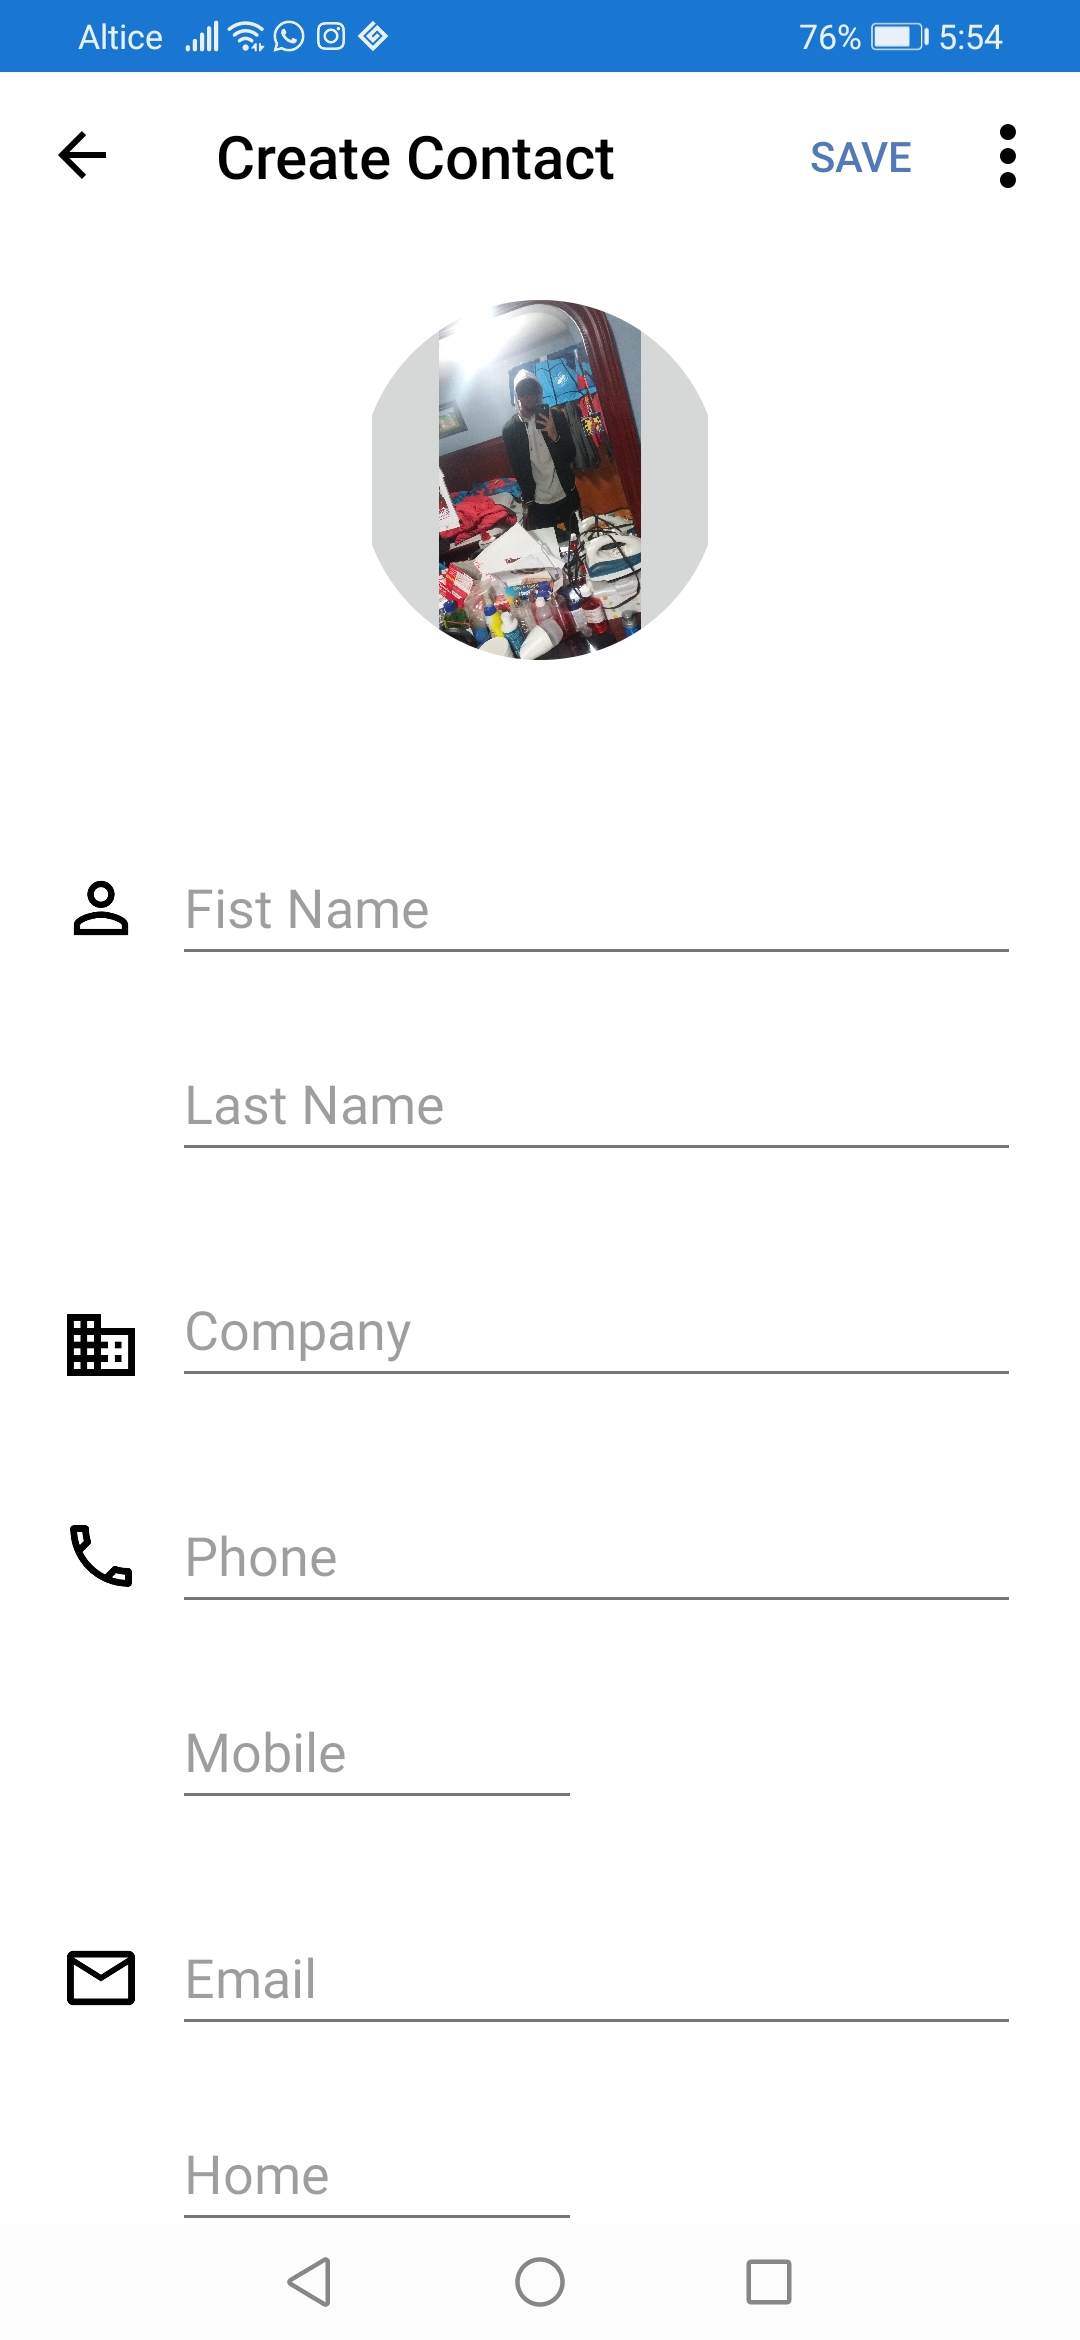
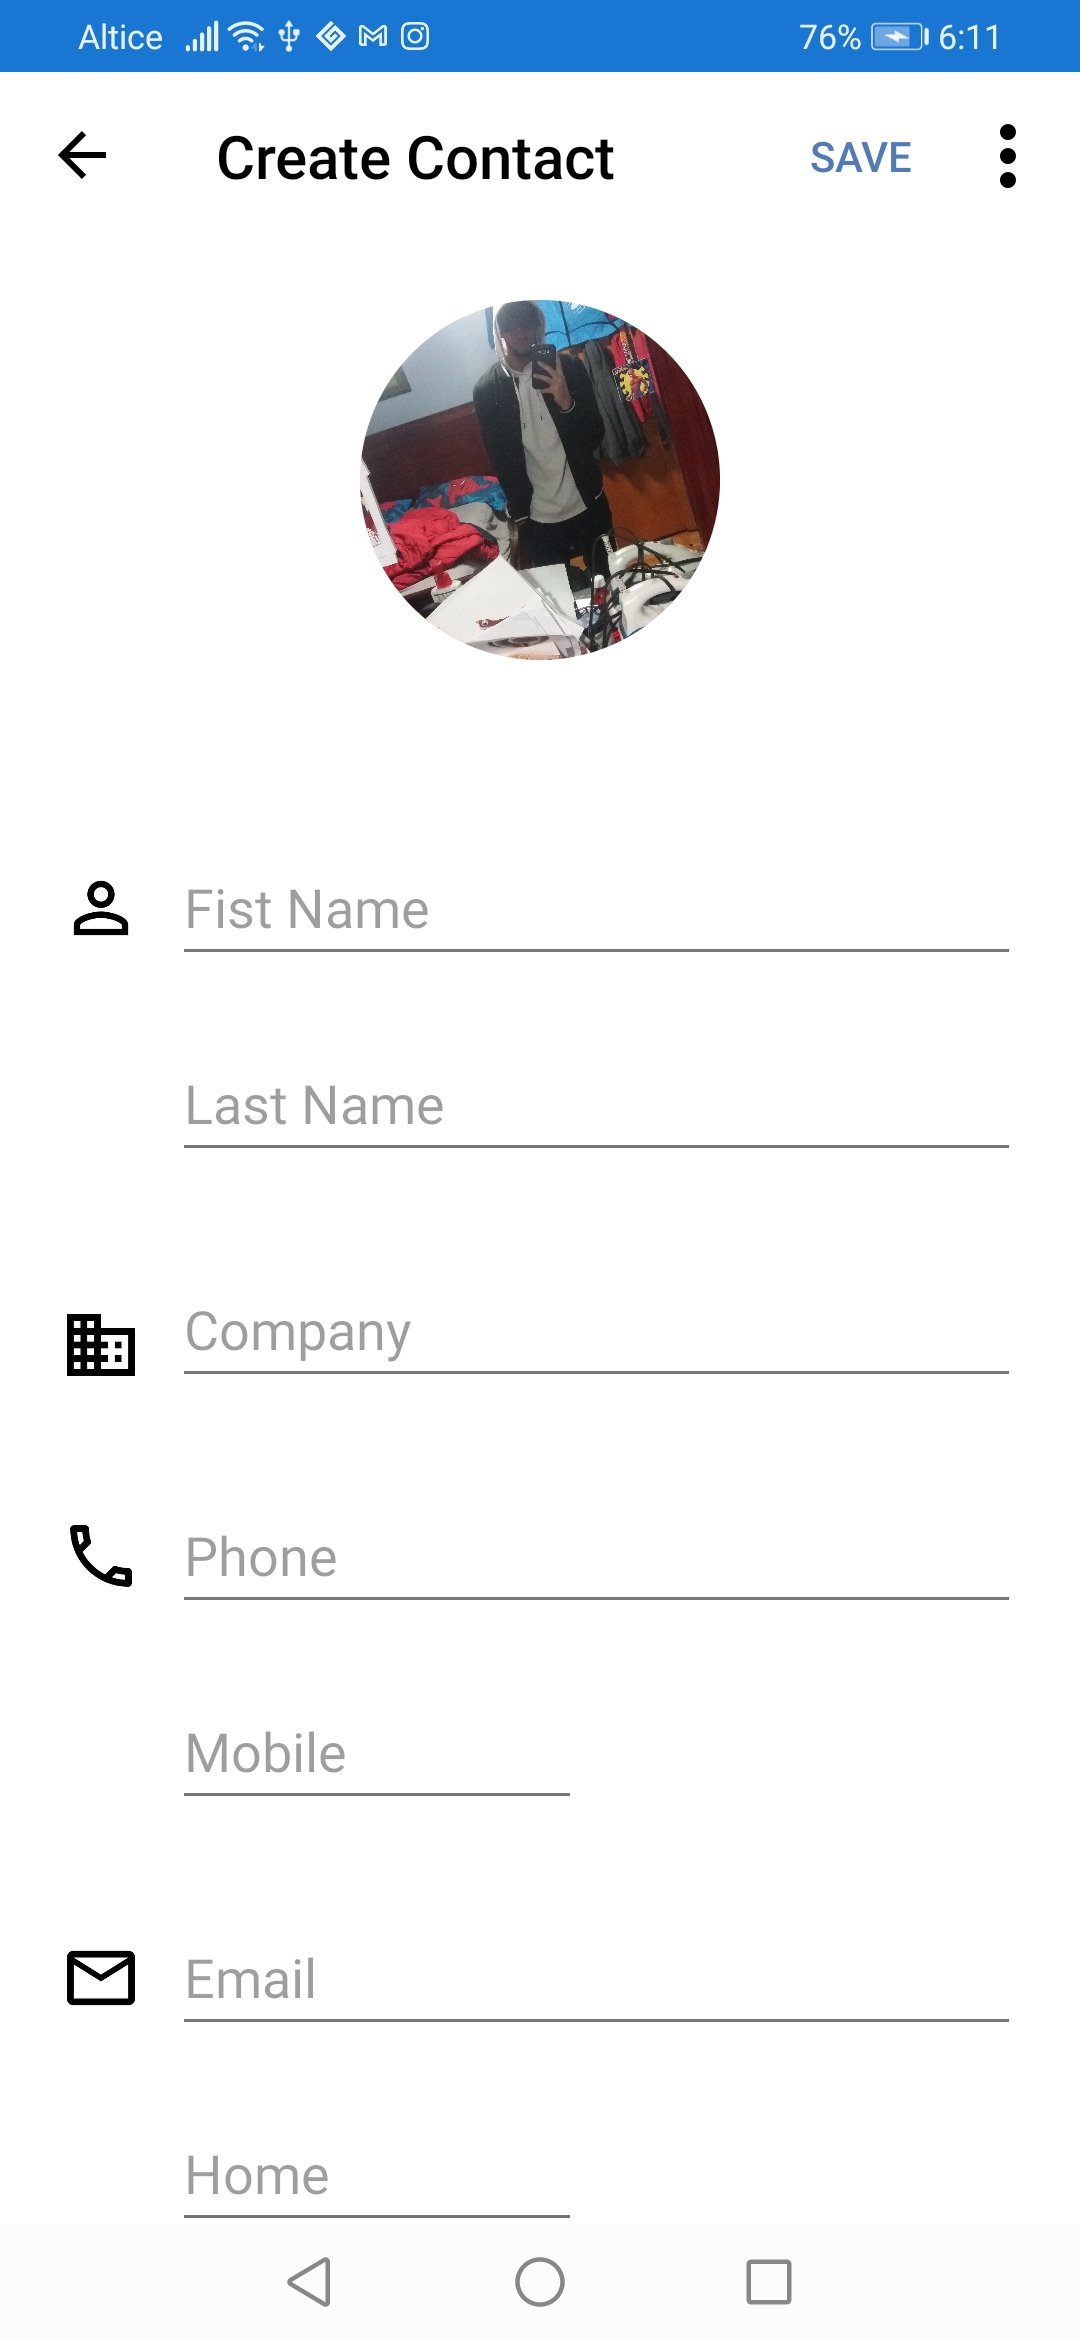
Round image bug fixed

diff --git a/GoogleContactsXamarin/GoogleContactsXamarin/Views/AddContactPage.xaml b/GoogleContactsXamarin/GoogleContactsXamarin/Views/AddContactPage.xaml
@@ -20,10 +20,10 @@
                              Command="{Binding AddPhotoCommand}"/>
             </Frame>
 
-            <Frame IsVisible="{Binding HasPhoto}" Grid.Column="0" Grid.Row="0" Grid.ColumnSpan="3" HeightRequest="120" WidthRequest="120" Margin="0,0,0,40" 
+            <Frame IsVisible="{Binding HasPhoto}" Grid.Column="0" Grid.Row="0" Grid.ColumnSpan="3" HeightRequest="120" WidthRequest="120" Margin="0,0,0,40"
                     BackgroundColor="Transparent" HorizontalOptions="Center" VerticalOptions="Center" 
                    Style="{StaticResource roundFrame}" >
-                <ImageButton IsVisible="{Binding HasPhoto}" Source="{Binding Contact.PhotoPath}" Margin="0" Padding="0"
+                <ImageButton IsVisible="{Binding HasPhoto}" Source="{Binding Contact.PhotoPath}" Margin="0" Padding="0" Aspect="AspectFill"
                              HorizontalOptions="FillAndExpand" VerticalOptions="FillAndExpand"
                              Command="{Binding AddPhotoCommand}"/>
             </Frame>

diff --git a/GoogleContactsXamarin/GoogleContactsXamarin/Views/ContactPage.xaml b/GoogleContactsXamarin/GoogleContactsXamarin/Views/ContactPage.xaml
@@ -17,7 +17,7 @@
                     <Image Source="more.png" HeightRequest="25"/>
                     <Frame HasShadow="False" HeightRequest="40" WidthRequest="40" HorizontalOptions="Center" VerticalOptions="Center" 
                            Style="{StaticResource roundFrame}">
-                        <Image Source="selfie.png"/>
+                        <Image Source="selfie.png" Aspect="AspectFill"/>
                     </Frame>
                 </StackLayout>
             </Frame>
